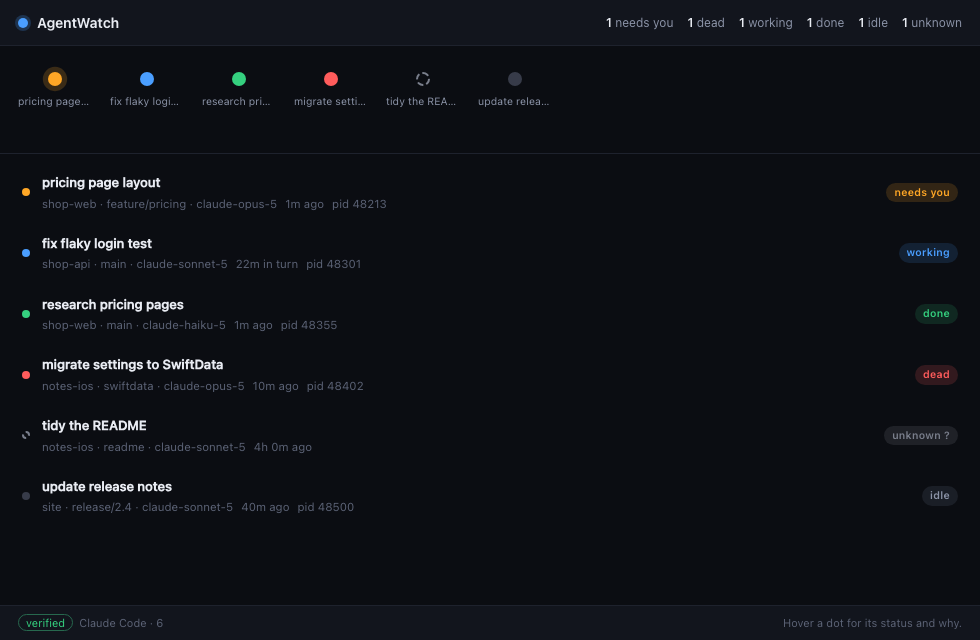
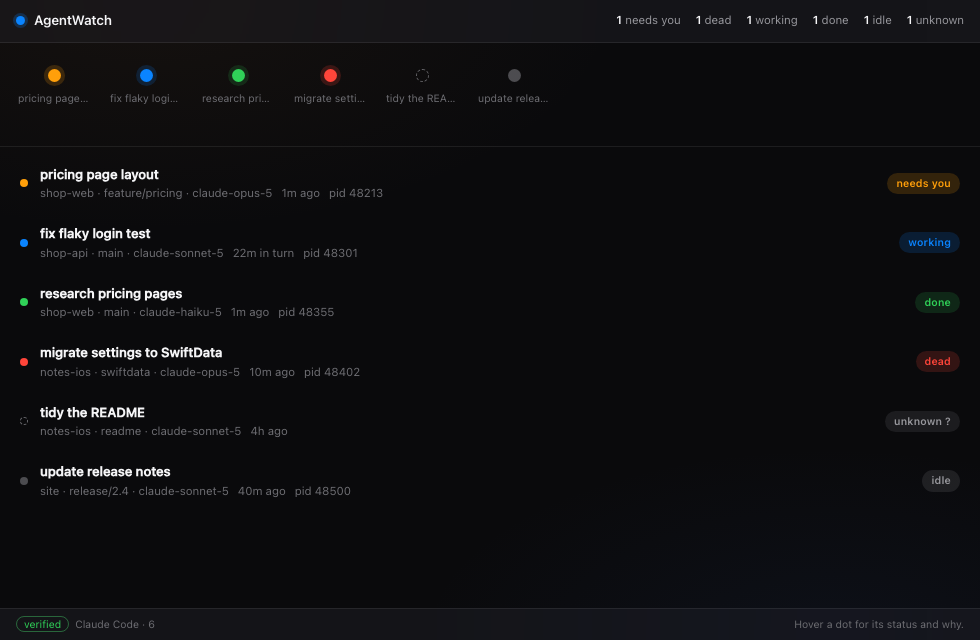
style(ui): vendor brand colours as a ring and chip, status keeps the fill

diff --git a/src/styles.css b/src/styles.css
@@ -26,6 +26,26 @@
   --dead: #ff453a;
   --unknown: #8e8e93;
 
+  /* vendor brand colours — the ring around a dot and its chip.
+     Approximations of each vendor's primary mark; corrected in one place only.
+     Status still owns the dot FILL (SPEC-001); brand never encodes state. */
+  --brand-claude:    #d97757;  /* Anthropic clay */
+  --brand-codex:     #10a37f;  /* OpenAI green */
+  --brand-cursor:    #c8c8cc;  /* monochrome mark */
+  --brand-gemini:    #8e75ff;  /* Gemini spark */
+  --brand-copilot:   #8957e5;  /* GitHub Copilot purple */
+  --brand-opencode:  #f5a623;  /* OpenCode amber */
+  --brand-grok:      #e6e6ea;  /* monochrome */
+  --brand-qwen:      #615ced;
+  --brand-kilo:      #7dd3fc;
+  --brand-cline:     #4ade80;
+  --brand-roo:       #a78bfa;
+  --brand-goose:     #22c55e;
+  --brand-droid:     #f472b6;
+  --brand-hermes:    #fbbf24;
+  --brand-pi:        #38bdf8;
+  --brand-default:   rgba(255, 255, 255, 0.28);
+
   --radius: 12px;
   --radius-sm: 9px;
   --gap: 14px;
@@ -88,6 +108,8 @@ body {
 .dot-wrap { display: flex; flex-direction: column; align-items: center; gap: 9px; width: 72px; }
 .dot {
   width: var(--dot); height: var(--dot); border-radius: 50%;
+  /* brand owns the ring, status owns the fill */
+  border: 2px solid var(--brand, var(--brand-default));
   transition: box-shadow .18s ease, transform .18s ease;
 }
 .dot.working  { background: var(--working); box-shadow: 0 0 0 4px color-mix(in srgb, var(--working) 16%, transparent); }
@@ -95,7 +117,7 @@ body {
 .dot.done     { background: var(--done); box-shadow: 0 0 0 4px color-mix(in srgb, var(--done) 14%, transparent); }
 .dot.idle     { background: var(--idle); opacity: .5; }
 .dot.dead     { background: var(--dead); box-shadow: 0 0 0 4px color-mix(in srgb, var(--dead) 18%, transparent); }
-.dot.unknown  { background: transparent; border: 1.5px dashed color-mix(in srgb, var(--unknown) 70%, transparent); }
+.dot.unknown  { background: transparent; border: 2px dashed var(--brand, var(--brand-default)); }
 @keyframes pulse {
   50% { box-shadow: 0 0 0 10px color-mix(in srgb, var(--needs-you) 3%, transparent); }
 }
@@ -103,6 +125,33 @@ body {
 .dot-label {
   font-size: 10.5px; color: var(--text-faint); text-align: center;
   max-width: 72px; overflow: hidden; text-overflow: ellipsis; white-space: nowrap;
+}
+
+/* vendor modifiers: set --brand for the dot ring and the chip */
+.p-claude   { --brand: var(--brand-claude); }
+.p-codex    { --brand: var(--brand-codex); }
+.p-cursor   { --brand: var(--brand-cursor); }
+.p-gemini   { --brand: var(--brand-gemini); }
+.p-copilot  { --brand: var(--brand-copilot); }
+.p-opencode { --brand: var(--brand-opencode); }
+.p-grok     { --brand: var(--brand-grok); }
+.p-qwen     { --brand: var(--brand-qwen); }
+.p-kilo     { --brand: var(--brand-kilo); }
+.p-cline    { --brand: var(--brand-cline); }
+.p-roo      { --brand: var(--brand-roo); }
+.p-goose    { --brand: var(--brand-goose); }
+.p-droid    { --brand: var(--brand-droid); }
+.p-hermes   { --brand: var(--brand-hermes); }
+.p-pi       { --brand: var(--brand-pi); }
+
+.chip {
+  display: inline-flex; align-items: center; gap: 5px;
+  font-size: 10px; font-weight: 560; color: var(--brand, var(--text-dim));
+  white-space: nowrap;
+}
+.chip::before {
+  content: ""; width: 6px; height: 6px; border-radius: 2px;
+  background: var(--brand, var(--brand-default));
 }
 
 /* ---- list ---- */
